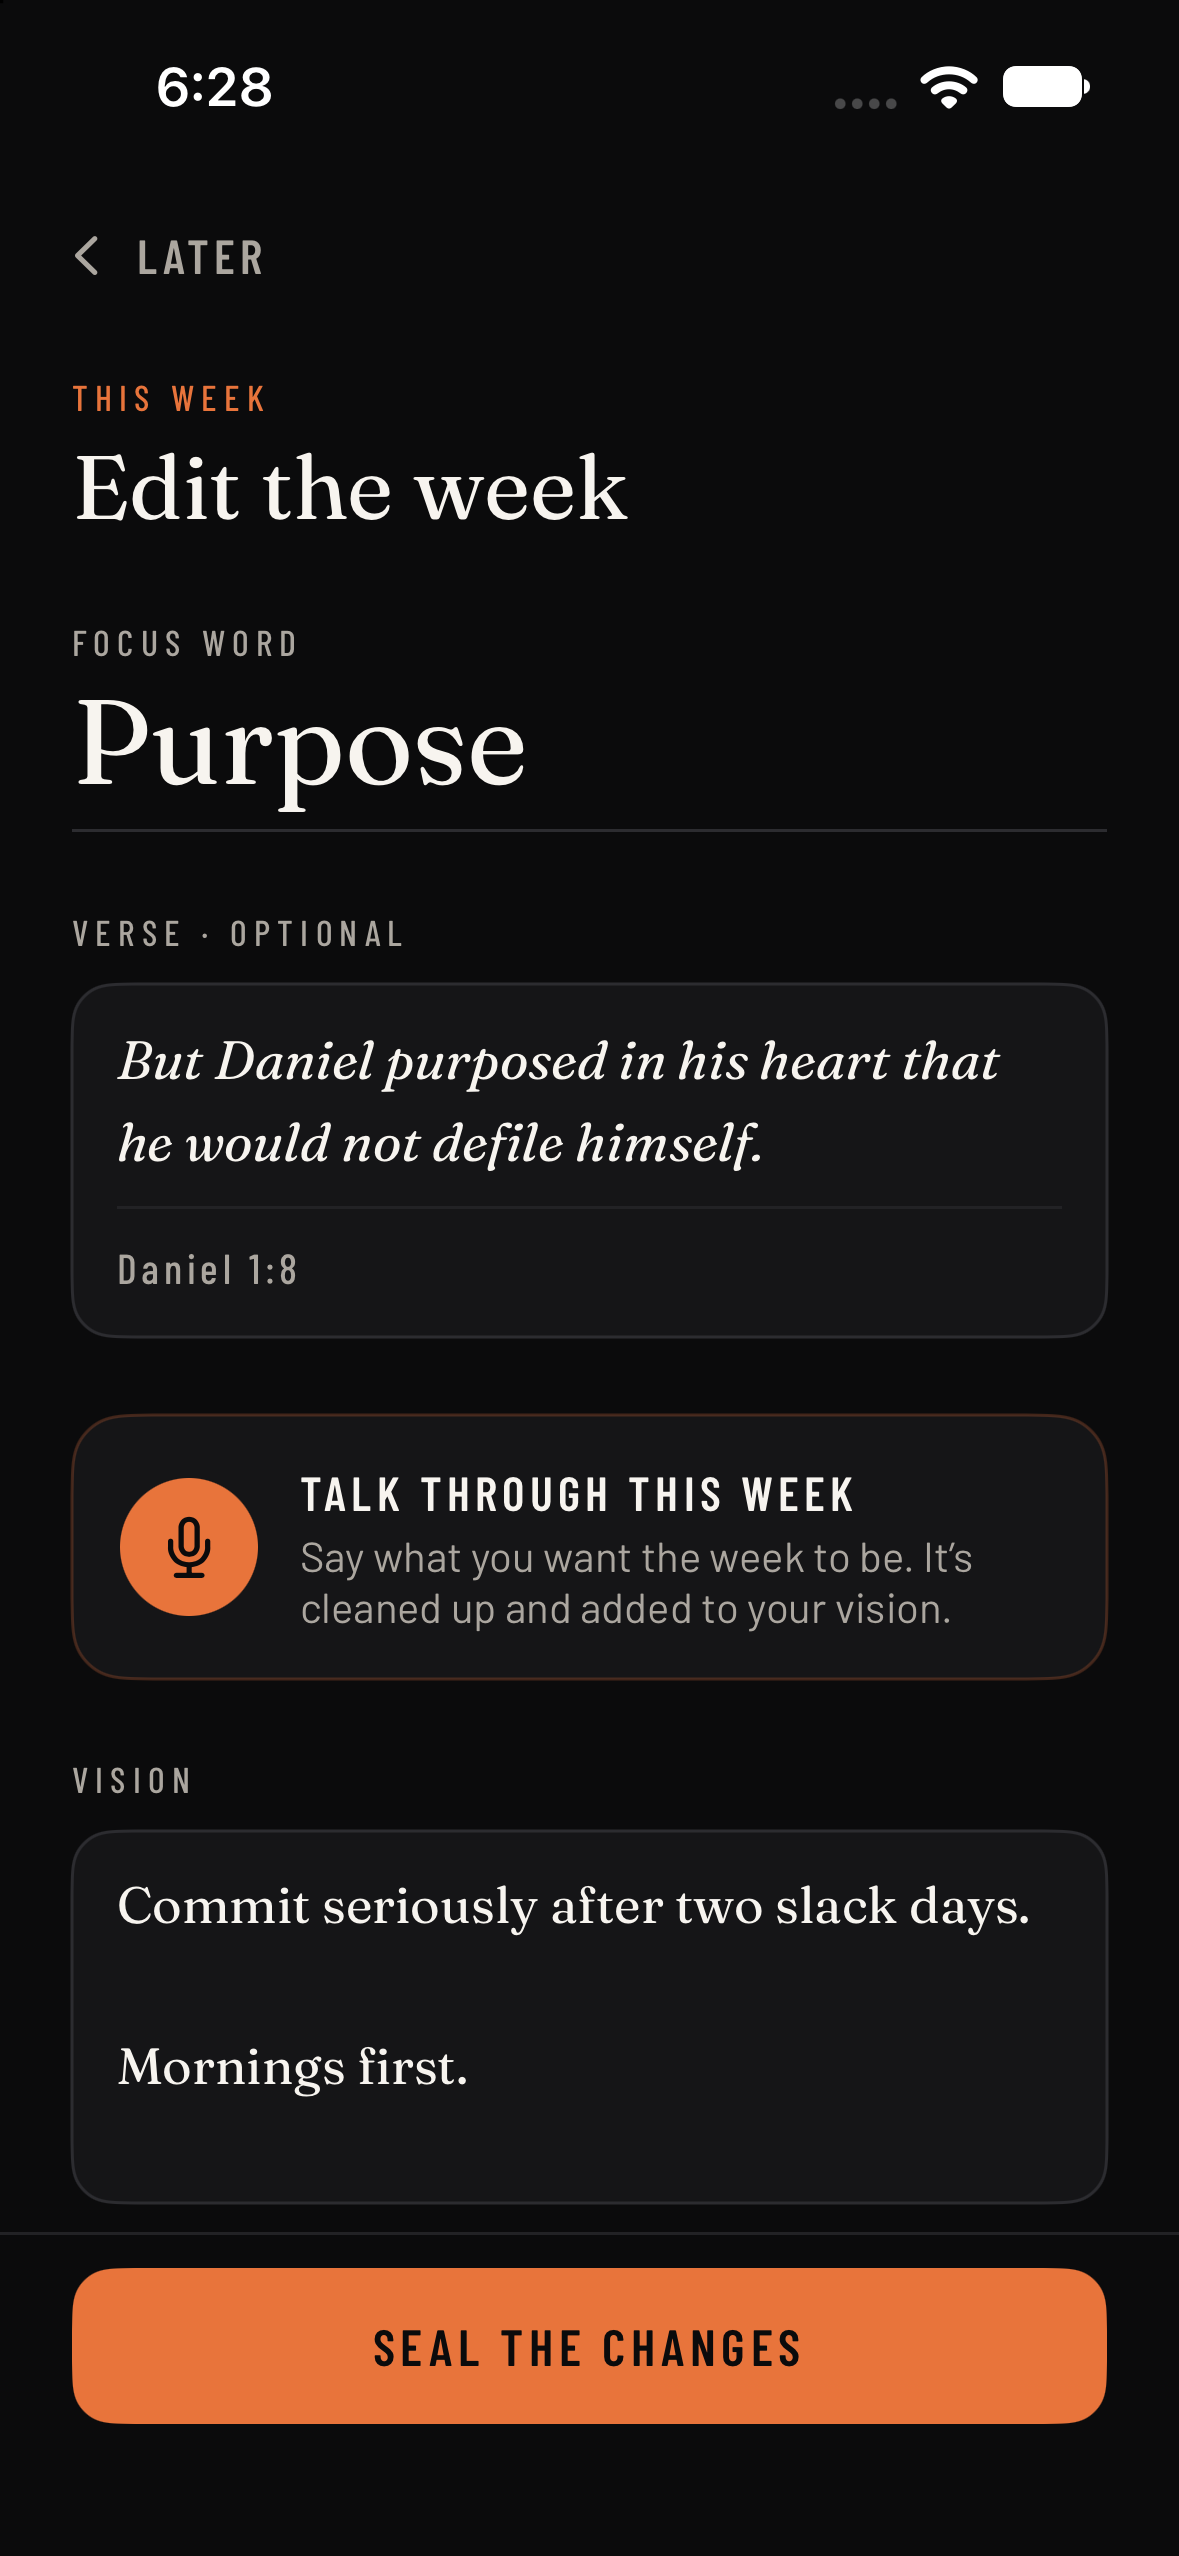
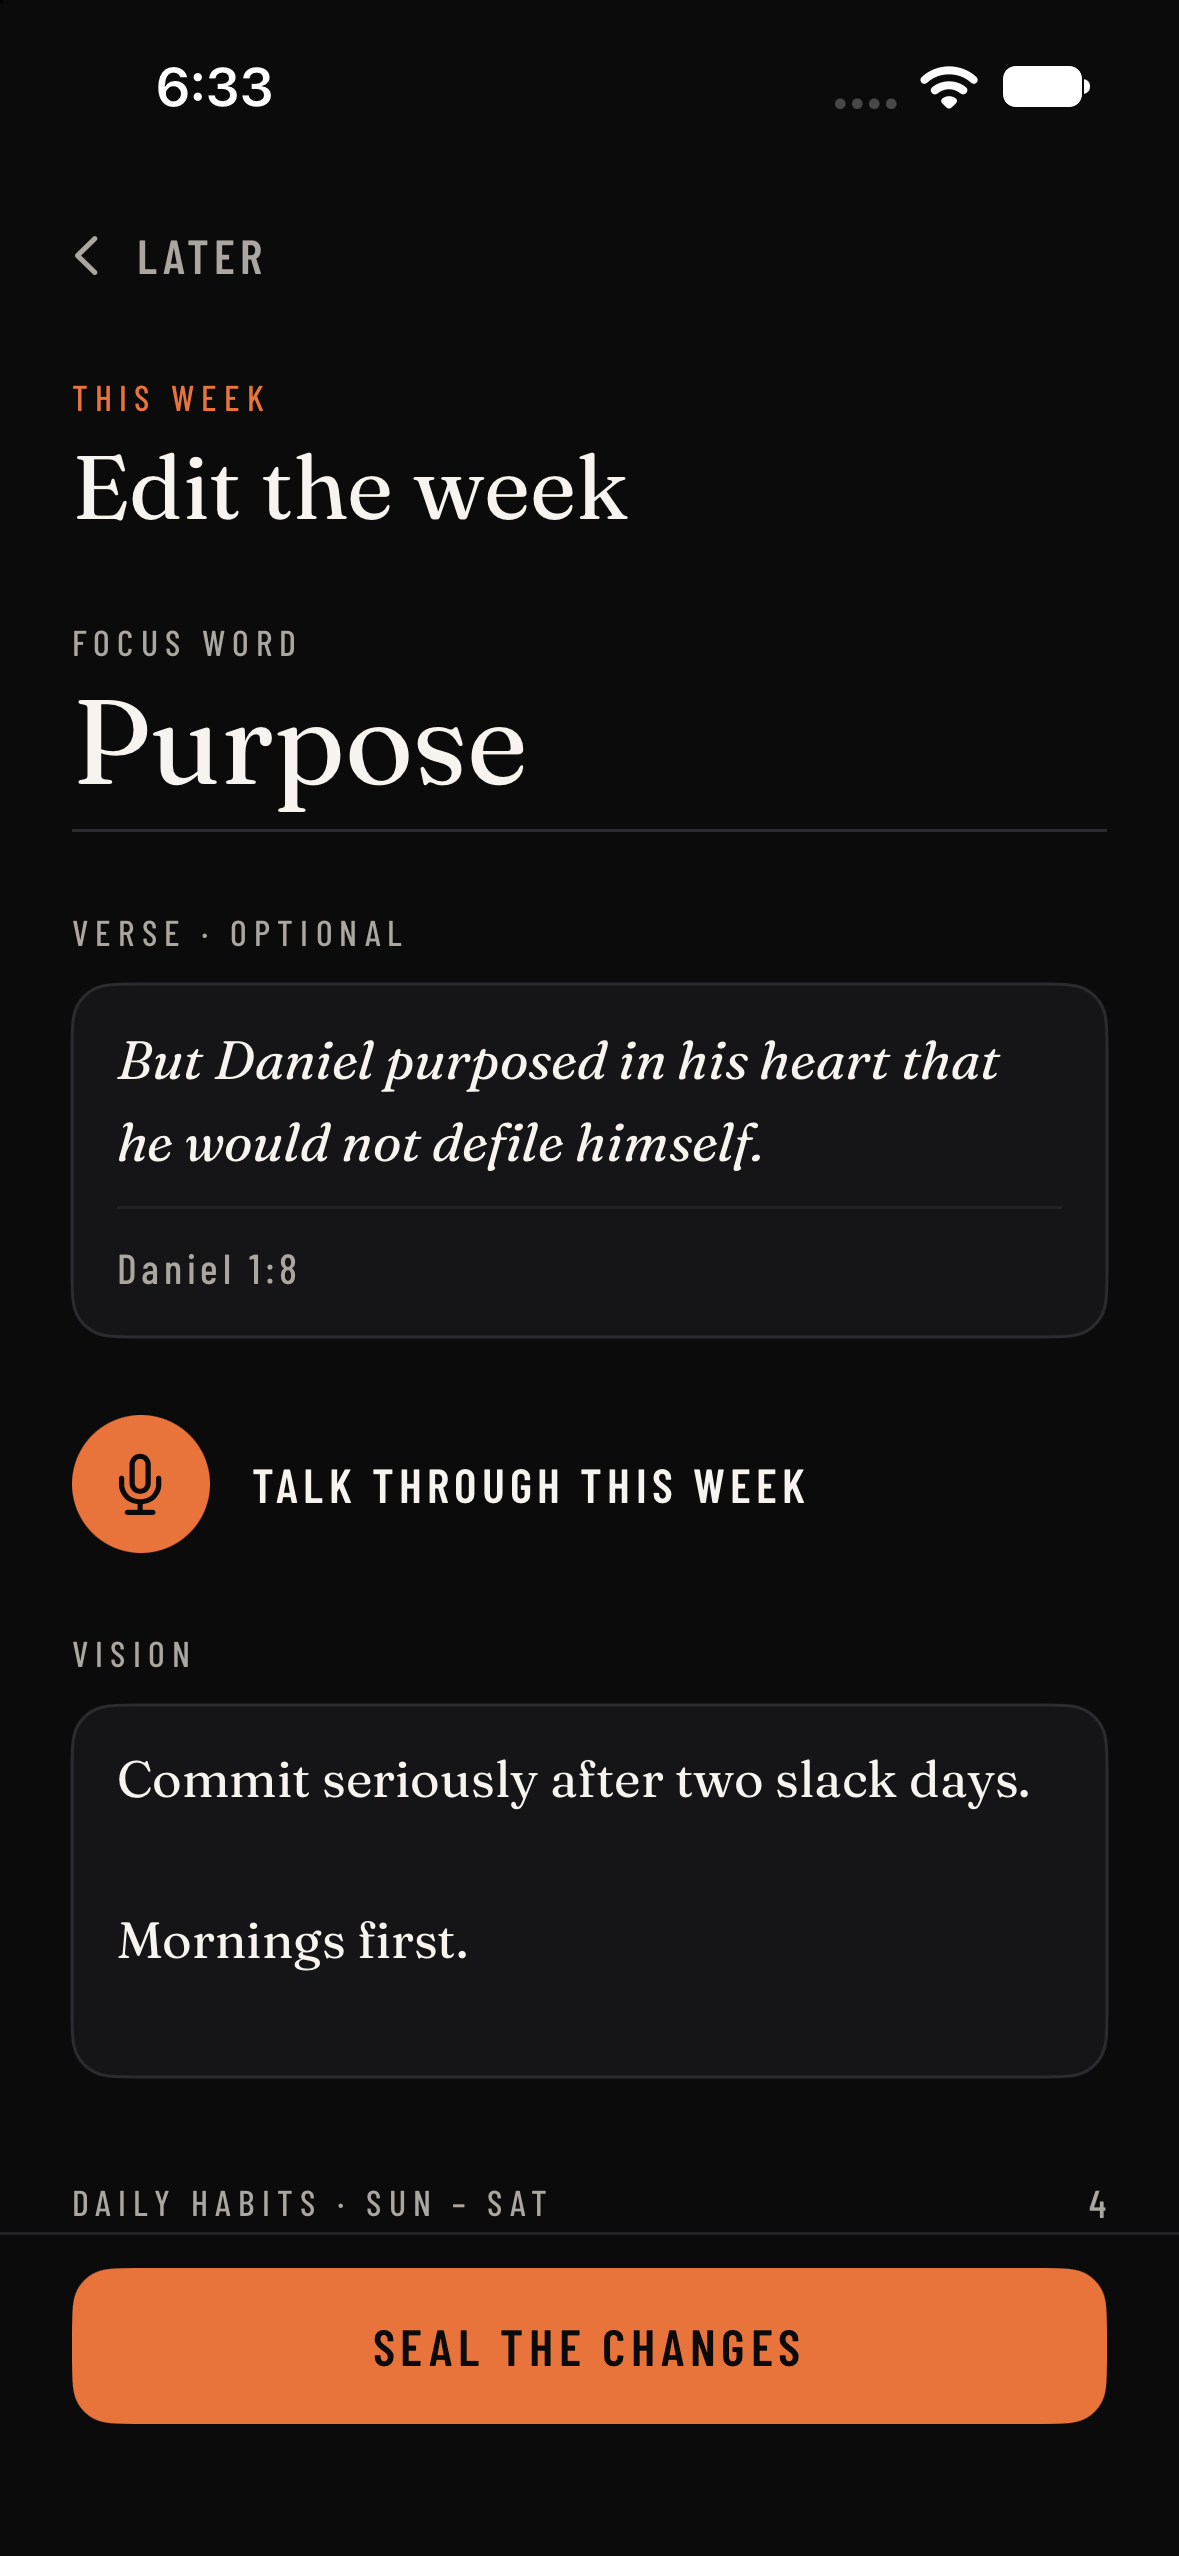
iOS: review page without boxes or standing subtext; the mic row is bare until it is listening

diff --git a/ios/WeeklyDirection/CloseView.swift b/ios/WeeklyDirection/CloseView.swift
@@ -21,7 +21,7 @@ struct CloseSheet: View {
             for i in answers.indices { answers[i] = add(answers[i], r.answers[i]) }
             if !r.other.isEmpty { reflection = reflection.trimmingCharacters(in: .whitespacesAndNewlines).isEmpty ? r.other : reflection + "\n\n" + r.other }
             let n = r.answers.filter { !$0.isEmpty }.count
-            return n == 0 ? "Added under Reflection. Read it over before you close." : "Filled in \(n) of \(questions.count). Read them over before you close."
+            return n == 0 ? "Added under Reflection." : "Answered \(n) of \(questions.count)."
         }
         let text = Tidy.oneLine(raw)
         if answers.isEmpty { reflection = reflection.isEmpty ? text : reflection + "\n\n" + text } else { answers[0] = add(answers[0], text) }
@@ -53,27 +53,22 @@ struct CloseSheet: View {
                         }
                     }
                     .padding(.top, 14)
-                    let unm = st.days.filter { w.marks[Rules.ymd($0)] == nil }.count
-                    Text(unm > 0 ? "\(unm) \(unm == 1 ? "day wasn’t" : "days weren’t") kept. Days are recorded as they happened." : "Days are recorded as they happened.")
-                        .font(Theme.ui(14)).foregroundStyle(Theme.mu).padding(.top, 12)
                     if store.settings.cafOn {
                         let lim = Logic.cafLimit(store.settings, Now.date.addingTimeInterval(86400)), sp = Logic.cafSplit(store.settings, lim)
                         Eyebrow(text: "Caffeine next week", color: Theme.mu, size: 12).padding(.top, 22)
                         Text(lim > 0 ? "Starts at \(lim) mg · AM \(sp.am) · PM \(sp.pm)" : "Caffeine-free").font(Theme.ui(15)).foregroundStyle(Theme.tx).padding(.top, 6)
                     }
-                    DictateCard(title: "Reflect on this week", hint: "Talk it through. Your words fill in the answers below.", onText: spoken)
-                        .padding(.top, 26)
+                    DictateCard(title: "Reflect on this week", onText: spoken).padding(.top, 28)
+                    // the questions are a plain page: each one, then its answer (spoken or typed) straight under it
                     ForEach(Array(questions.enumerated()), id: \.offset) { i, q in
-                        Text(q).font(Theme.serif(18)).lineSpacing(5).foregroundStyle(Theme.tx).padding(.top, 24)
-                        box(text: Binding(get: { i < answers.count ? answers[i] : "" }, set: { if i < answers.count { answers[i] = $0 } }), placeholder: "Answer", minHeight: 72)
-                            .padding(.top, 10)
+                        Rectangle().fill(Theme.rule).frame(height: 1).padding(.top, 22)
+                        Text(q).font(Theme.serifItalic(17)).lineSpacing(4).foregroundStyle(Theme.mu).padding(.top, 18)
+                        line(text: Binding(get: { i < answers.count ? answers[i] : "" }, set: { if i < answers.count { answers[i] = $0 } }), placeholder: "Answer")
+                            .padding(.top, 8)
                     }
-                    HStack(spacing: 12) {
-                        Eyebrow(text: "Reflection", color: Theme.mu, size: 12)
-                        Eyebrow(text: "optional", color: Theme.mu2, size: 12)
-                    }
-                    .padding(.top, 28)
-                    box(text: $reflection, placeholder: "Anything else from the week?", minHeight: 96).padding(.top, 10)
+                    Rectangle().fill(Theme.rule).frame(height: 1).padding(.top, 22)
+                    Eyebrow(text: "This week’s journal", color: Theme.mu, size: 12).padding(.top, 18)
+                    line(text: $reflection, placeholder: "Anything else from the week?").padding(.top, 8)
                     Button { close() } label: {
                         Text("Close the week").caps(16).foregroundStyle(Theme.onAc)
                             .frame(maxWidth: .infinity).frame(height: 54)
@@ -96,13 +91,10 @@ struct CloseSheet: View {
         .background(Theme.bg)
     }
 
-    private func box(text: Binding<String>, placeholder: String, minHeight: CGFloat) -> some View {
+    /// writing straight on the page: no box around it
+    private func line(text: Binding<String>, placeholder: String) -> some View {
         TextField(placeholder, text: text, axis: .vertical)
-            .font(Theme.serif(17)).lineSpacing(6).foregroundStyle(Theme.tx)
-            .frame(minHeight: minHeight, alignment: .topLeading)
-            .padding(.horizontal, 16).padding(.vertical, 14)
-            .background(Theme.card, in: RoundedRectangle(cornerRadius: Theme.r(14), style: .continuous))
-            .overlay(RoundedRectangle(cornerRadius: Theme.r(14), style: .continuous).stroke(Theme.line, lineWidth: 1))
+            .font(Theme.serif(18)).lineSpacing(6).foregroundStyle(Theme.tx).fullWidth()
     }
 
     /// joinRef: each answered question as "question\nanswer", then the reflection, separated by blank lines

diff --git a/ios/WeeklyDirection/Dictate.swift b/ios/WeeklyDirection/Dictate.swift
@@ -6,7 +6,6 @@ import SwiftUI
 struct DictateCard: View {
     @EnvironmentObject var recorder: Recorder
     let title: String
-    let hint: String
     /// what to do with the spoken words (tidy them, fill the fields); the card shows it is working until this returns
     let onText: (String) async -> String?
 
@@ -25,7 +24,8 @@ struct DictateCard: View {
                             .frame(width: 46, height: 46).background(Theme.ac, in: Circle())
                         VStack(alignment: .leading, spacing: 3) {
                             Text(title).caps(16).foregroundStyle(Theme.tx)
-                            Text(note ?? hint).font(Theme.ui(14)).foregroundStyle(Theme.mu).multilineTextAlignment(.leading)
+                            // no standing explanation (Eddie: minimal); only what just happened, when something did
+                            if let note { Text(note).font(Theme.ui(14)).foregroundStyle(Theme.mu).multilineTextAlignment(.leading) }
                         }
                         Spacer(minLength: 0)
                     }
@@ -58,8 +58,11 @@ struct DictateCard: View {
                 .frame(height: 46)
             }
         }
-        .padding(16).fullWidth().card(18)
-        .overlay(RoundedRectangle(cornerRadius: Theme.r(18), style: .continuous).stroke(Theme.acDim.opacity(phase == .idle ? 0.45 : 0.9), lineWidth: 1))
+        // at rest it is just the mic and its name; the box appears only while it is listening or working
+        .padding(phase == .idle ? 0 : 16).fullWidth()
+        .background(phase == .idle ? Color.clear : Theme.card, in: RoundedRectangle(cornerRadius: Theme.r(18), style: .continuous))
+        .overlay(RoundedRectangle(cornerRadius: Theme.r(18), style: .continuous).stroke(phase == .idle ? Color.clear : Theme.acDim, lineWidth: 1))
+        .animation(.easeOut(duration: 0.18), value: phase)
         .onChange(of: recorder.elapsed) { _, e in if phase == .rec, e >= Recorder.maxSeconds - 1 { Task { await finish() } } }
         .onDisappear { if phase == .rec { Task { _ = await recorder.finishDictation(cancel: true) } } }
     }
@@ -115,5 +118,5 @@ enum Tidy {
     static func oneLine(_ s: String) -> String {
         s.replacingOccurrences(of: "\\s*\\n+\\s*", with: " ", options: .regularExpression).trimmingCharacters(in: .whitespacesAndNewlines)
     }
-    static let asSpoken = "Clean-up wasn’t available, so these are your words as spoken."
+    static let asSpoken = "Added as spoken."
 }

diff --git a/ios/WeeklyDirection/PlanView.swift b/ios/WeeklyDirection/PlanView.swift
@@ -92,8 +92,7 @@ struct PlanView: View {
             }
         }
         .padding(.top, 10)
-        DictateCard(title: replan != nil ? "Talk through this week" : "Plan next week",
-                    hint: "Say what you want the week to be. It’s cleaned up and added to your vision.", onText: spoken)
+        DictateCard(title: replan != nil ? "Talk through this week" : "Plan next week", onText: spoken)
             .padding(.top, 26)
         Eyebrow(text: "Vision", color: Theme.mu, size: 12).padding(.top, 26)
         field {
@@ -110,8 +109,7 @@ struct PlanView: View {
         }
         .padding(.top, 34)
         trayCard.padding(.top, 10)
-        Eyebrow(text: "Add from your library · hold to edit", color: Theme.mu2, size: 11).padding(.top, 18)
-        chips.padding(.top, 10)
+        chips.padding(.top, 14)
         HStack {
             Eyebrow(text: "Saturday questions", color: Theme.mu, size: 12)
             Spacer()
@@ -165,7 +163,7 @@ struct PlanView: View {
         let cur = thoughts.trimmingCharacters(in: .whitespacesAndNewlines)
         thoughts = cur.isEmpty ? text : cur + "\n\n" + text
         saveDraft()
-        return tidy == nil ? Tidy.asSpoken : "Added to your vision below. Edit anything that isn’t right."
+        return tidy == nil ? Tidy.asSpoken : "Added to your vision."
     }
 
     private func field<V: View>(stroke: Color = Theme.line, @ViewBuilder _ content: () -> V) -> some View {
